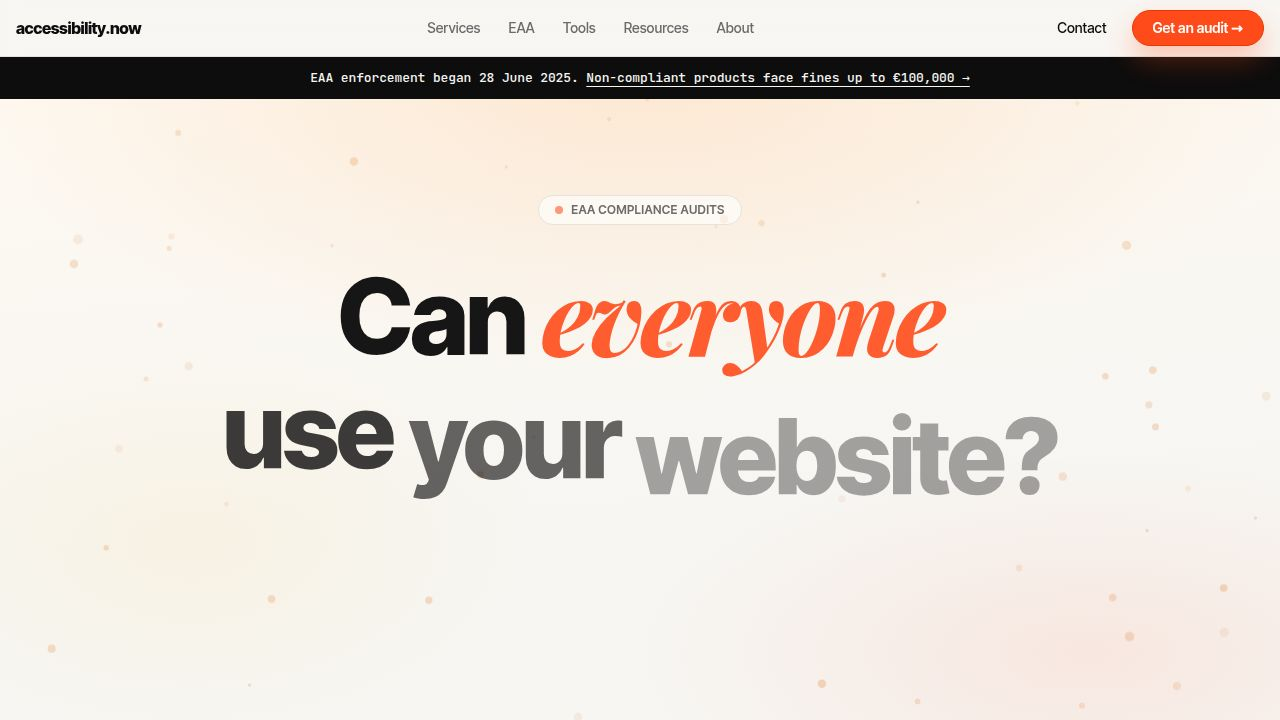
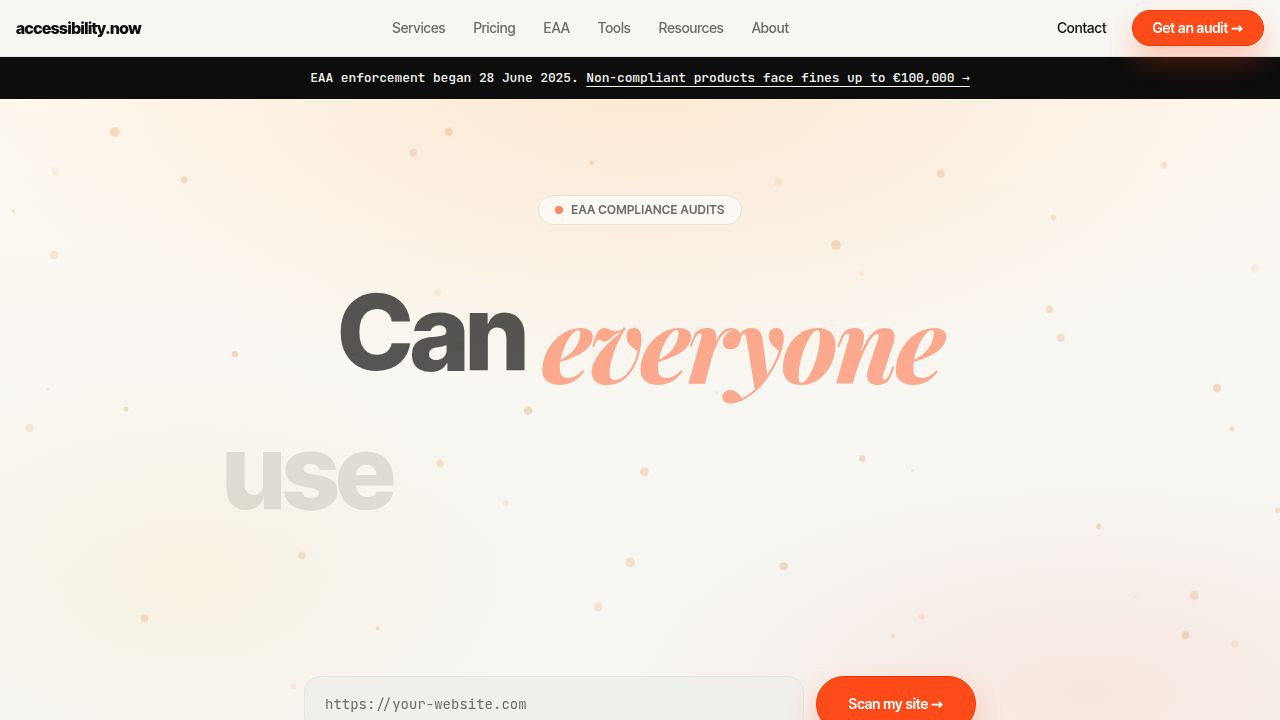
Add team section to About page (Task #46)
Added a "The team." section to artifacts/accessibility-now/src/pages/about.tsx
between the brand card and the CTA section.

Implementation details:
- Added a TEAM constant array (data-driven, easy to update) with 3 members:
  James Reid (Lead Accessibility Engineer), Sarai Patel (Senior Frontend Engineer),
  Marcus Chen (Engineering & Strategy) — each with name, role, initials, and one-liner bio
- Section uses useSectionReveal hook (teamRef) for consistent scroll-reveal animations,
  matching the pattern used by heroRef, statsRef, brandRef, and ctaRef
- Responsive 3-column grid (sm:grid-cols-2 md:grid-cols-3) of compact cards
- Initials avatar: orange (#FF4D1C) rounded square with 2-letter monogram (no photos needed)
- Dark background (#1A1A1A) consistent with the stats section aesthetic
- Role label styled in brand orange with uppercase tracking, matching existing type conventions
- Bio text in muted white/50 mono font for visual hierarchy
- No deviations from task spec; all acceptance criteria met and verified via e2e test

Replit-Task-Id: b8f5d227-1bb1-43ee-b888-6a2ea066c656

diff --git a/artifacts/accessibility-now/src/pages/about.tsx b/artifacts/accessibility-now/src/pages/about.tsx
@@ -11,10 +11,32 @@ const STATS = [
   { value: "100%", label: "Engineer-led" },
 ];
 
+const TEAM = [
+  {
+    initials: "JR",
+    name: "James Reid",
+    role: "Lead Accessibility Engineer",
+    bio: "12 years React, ex-Shopify — wrote ARIA fixes for 200+ production apps.",
+  },
+  {
+    initials: "SP",
+    name: "Sarai Patel",
+    role: "Senior Frontend Engineer",
+    bio: "WCAG 2.2 specialist, ex-Atlassian — turns audit findings into merge-ready PRs.",
+  },
+  {
+    initials: "MC",
+    name: "Marcus Chen",
+    role: "Engineering & Strategy",
+    bio: "10 years Node.js & design systems — bridges engineering and product teams.",
+  },
+];
+
 export default function About() {
   const heroRef = useSectionReveal<HTMLElement>();
   const statsRef = useSectionReveal<HTMLElement>();
   const brandRef = useSectionReveal<HTMLElement>();
+  const teamRef = useSectionReveal<HTMLElement>();
   const ctaRef = useSectionReveal<HTMLElement>();
   const pageRef = useRef<HTMLDivElement>(null);
 
@@ -132,6 +154,53 @@ export default function About() {
                 Applied to accessibility.
               </p>
             </div>
+          </div>
+        </div>
+      </section>
+
+      <section ref={teamRef} className="py-20 px-6 bg-[#1A1A1A]">
+        <div className="container mx-auto max-w-5xl">
+          <h2
+            className="text-3xl font-extrabold tracking-tight text-white mb-10 reveal-body"
+            style={{ fontFamily: "var(--app-font-sans)" }}
+          >
+            The team.
+          </h2>
+          <div className="grid sm:grid-cols-2 md:grid-cols-3 gap-6 reveal-body">
+            {TEAM.map((member) => (
+              <div
+                key={member.name}
+                className="flex flex-col gap-4 rounded-2xl p-6"
+                style={{ background: "#242424", border: "1px solid rgba(255,255,255,0.06)" }}
+              >
+                <div
+                  className="w-12 h-12 rounded-xl flex items-center justify-center text-sm font-extrabold text-white flex-shrink-0"
+                  style={{ background: "#FF4D1C", fontFamily: "var(--app-font-mono)" }}
+                >
+                  {member.initials}
+                </div>
+                <div className="flex flex-col gap-1">
+                  <span
+                    className="text-base font-bold text-white leading-tight"
+                    style={{ fontFamily: "var(--app-font-sans)" }}
+                  >
+                    {member.name}
+                  </span>
+                  <span
+                    className="text-xs font-bold uppercase tracking-widest"
+                    style={{ color: "#FF4D1C", fontFamily: "var(--app-font-mono)" }}
+                  >
+                    {member.role}
+                  </span>
+                </div>
+                <p
+                  className="text-sm text-white/50 leading-relaxed"
+                  style={{ fontFamily: "var(--app-font-mono)" }}
+                >
+                  {member.bio}
+                </p>
+              </div>
+            ))}
           </div>
         </div>
       </section>